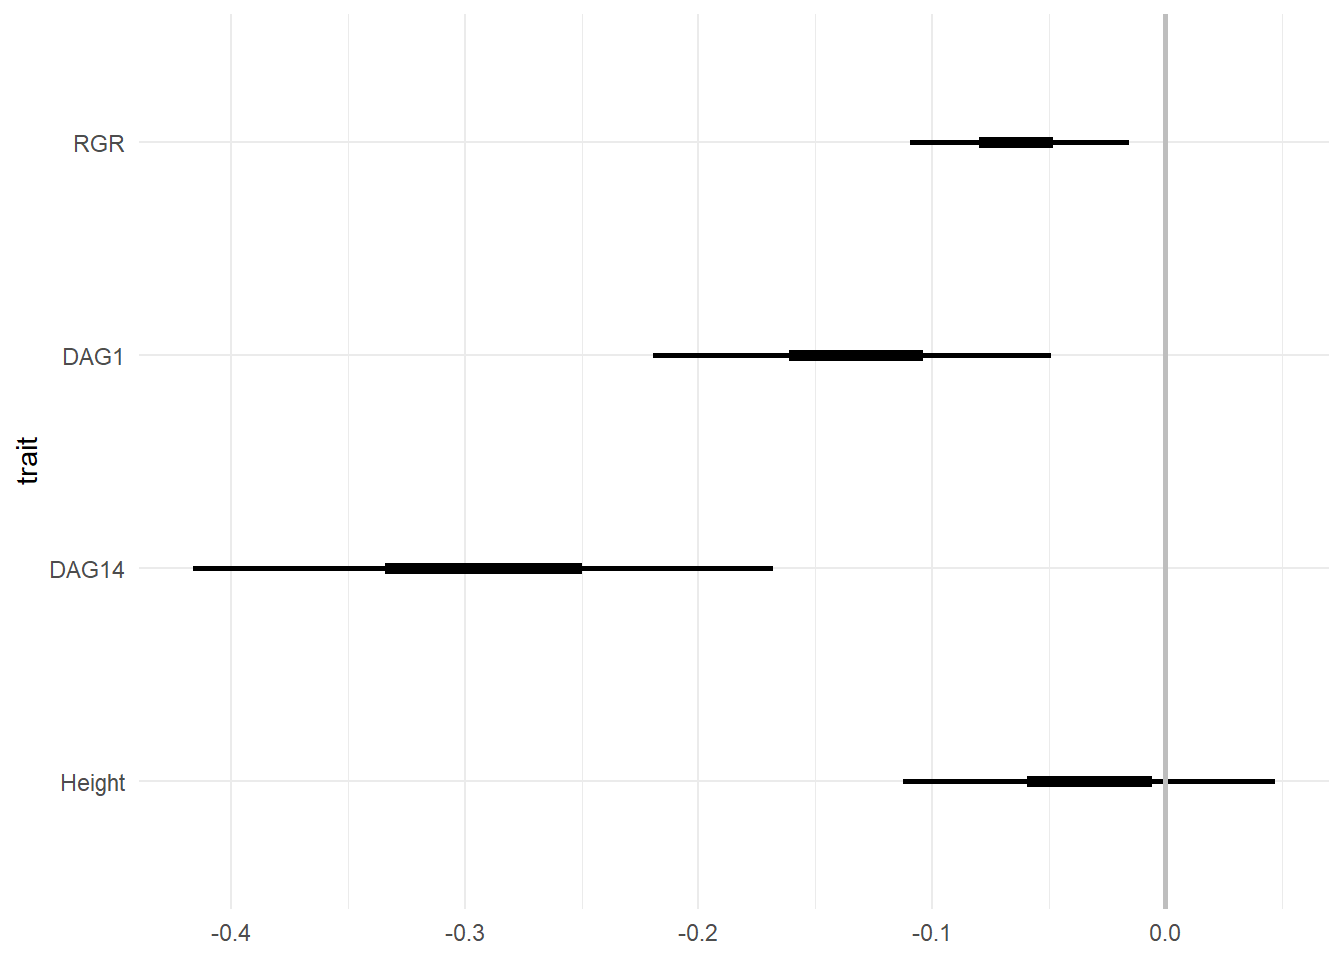
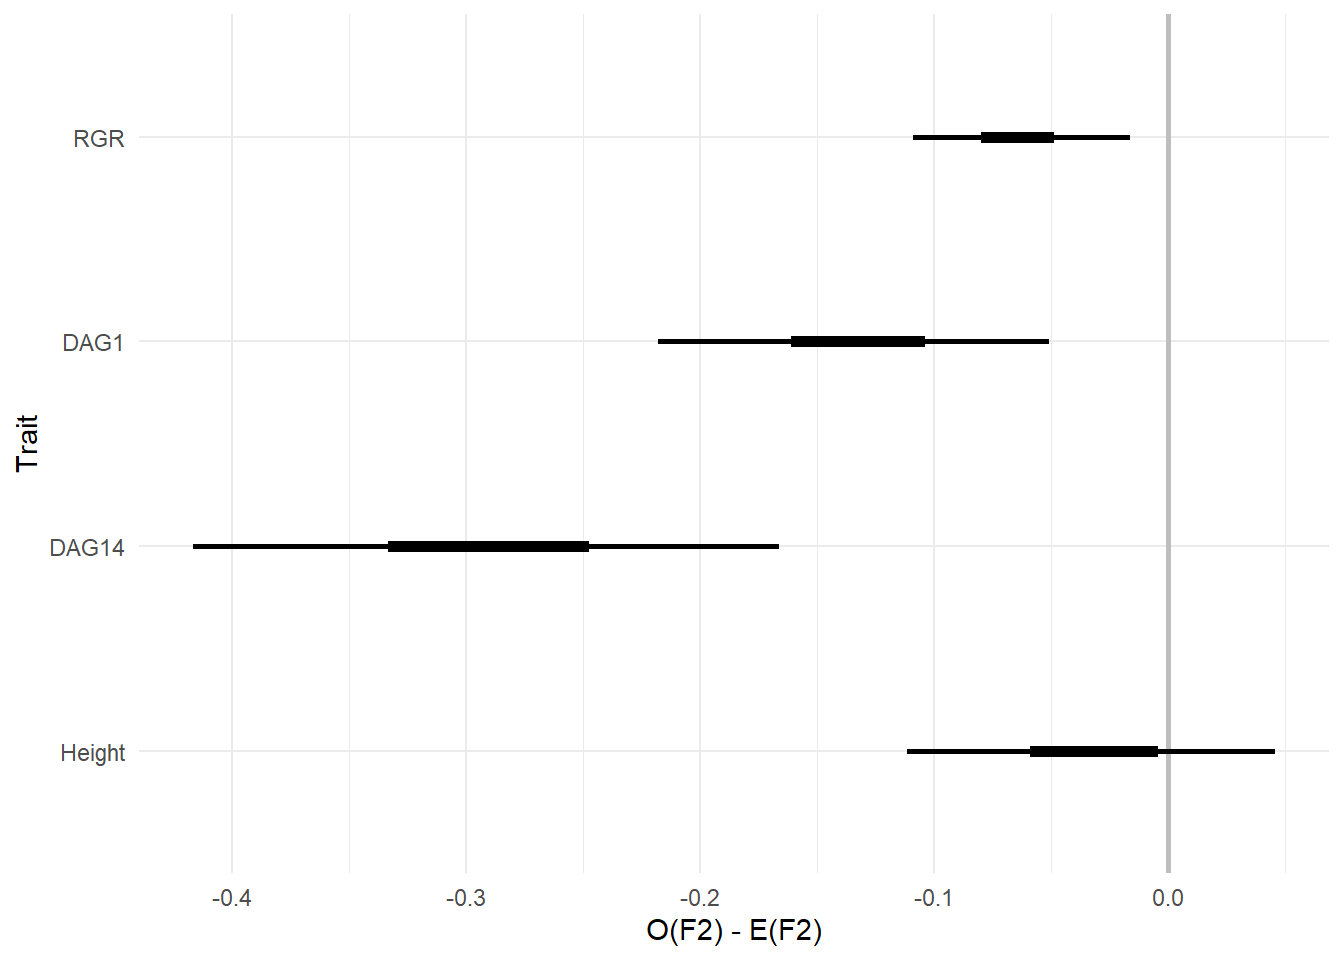
jk

diff --git a/analysis.html b/analysis.html
@@ -159,12 +159,14 @@ pre > code.sourceCode > span > a:first-child::before { text-decoration: underlin
 <span id="cb6-13"><a href="#cb6-13" aria-hidden="true" tabindex="-1"></a>            <span class="at">upr.5 =</span> <span class="fu">quantile</span>(delta, .<span class="dv">75</span>),</span>
 <span id="cb6-14"><a href="#cb6-14" aria-hidden="true" tabindex="-1"></a>            <span class="at">lwr.5 =</span> <span class="fu">quantile</span>(delta, .<span class="dv">25</span>)) <span class="sc">%&gt;%</span> </span>
 <span id="cb6-15"><a href="#cb6-15" aria-hidden="true" tabindex="-1"></a>  <span class="fu">ggplot</span>() <span class="sc">+</span></span>
-<span id="cb6-16"><a href="#cb6-16" aria-hidden="true" tabindex="-1"></a>  <span class="fu">geom_errorbarh</span>(<span class="fu">aes</span>(<span class="at">y =</span> trait, <span class="at">xmin =</span> lwr, <span class="at">xmax =</span> upr), <span class="at">height =</span> <span class="dv">0</span>, </span>
-<span id="cb6-17"><a href="#cb6-17" aria-hidden="true" tabindex="-1"></a>                 <span class="at">linewidth =</span> <span class="dv">1</span>) <span class="sc">+</span></span>
-<span id="cb6-18"><a href="#cb6-18" aria-hidden="true" tabindex="-1"></a>  <span class="fu">geom_errorbarh</span>(<span class="fu">aes</span>(<span class="at">y =</span> trait, <span class="at">xmin =</span> lwr<span class="fl">.5</span>, <span class="at">xmax =</span> upr<span class="fl">.5</span>), <span class="at">height =</span> <span class="dv">0</span>, </span>
-<span id="cb6-19"><a href="#cb6-19" aria-hidden="true" tabindex="-1"></a>                 <span class="at">linewidth =</span> <span class="dv">2</span>) <span class="sc">+</span></span>
-<span id="cb6-20"><a href="#cb6-20" aria-hidden="true" tabindex="-1"></a>  <span class="fu">geom_vline</span>(<span class="at">xintercept =</span> <span class="dv">0</span>, <span class="at">color =</span> <span class="st">"grey"</span>, <span class="at">linewidth =</span> <span class="dv">1</span>) <span class="sc">+</span></span>
-<span id="cb6-21"><a href="#cb6-21" aria-hidden="true" tabindex="-1"></a>  <span class="fu">theme_minimal</span>()</span></code><button title="Copy to Clipboard" class="code-copy-button"><i class="bi"></i></button></pre></div>
+<span id="cb6-16"><a href="#cb6-16" aria-hidden="true" tabindex="-1"></a>  <span class="fu">geom_vline</span>(<span class="at">xintercept =</span> <span class="dv">0</span>, <span class="at">color =</span> <span class="st">"grey"</span>, <span class="at">linewidth =</span> <span class="dv">1</span>) <span class="sc">+</span></span>
+<span id="cb6-17"><a href="#cb6-17" aria-hidden="true" tabindex="-1"></a>  <span class="fu">geom_errorbarh</span>(<span class="fu">aes</span>(<span class="at">y =</span> trait, <span class="at">xmin =</span> lwr, <span class="at">xmax =</span> upr), <span class="at">height =</span> <span class="dv">0</span>, </span>
+<span id="cb6-18"><a href="#cb6-18" aria-hidden="true" tabindex="-1"></a>                 <span class="at">linewidth =</span> <span class="dv">1</span>) <span class="sc">+</span></span>
+<span id="cb6-19"><a href="#cb6-19" aria-hidden="true" tabindex="-1"></a>  <span class="fu">geom_errorbarh</span>(<span class="fu">aes</span>(<span class="at">y =</span> trait, <span class="at">xmin =</span> lwr<span class="fl">.5</span>, <span class="at">xmax =</span> upr<span class="fl">.5</span>), <span class="at">height =</span> <span class="dv">0</span>, </span>
+<span id="cb6-20"><a href="#cb6-20" aria-hidden="true" tabindex="-1"></a>                 <span class="at">linewidth =</span> <span class="dv">2</span>) <span class="sc">+</span></span>
+<span id="cb6-21"><a href="#cb6-21" aria-hidden="true" tabindex="-1"></a>  <span class="fu">theme_minimal</span>() <span class="sc">+</span></span>
+<span id="cb6-22"><a href="#cb6-22" aria-hidden="true" tabindex="-1"></a>  <span class="fu">labs</span>(<span class="at">y =</span> <span class="st">"Trait"</span>,</span>
+<span id="cb6-23"><a href="#cb6-23" aria-hidden="true" tabindex="-1"></a>       <span class="at">x =</span> <span class="st">"O(F2) - E(F2)"</span>)</span></code><button title="Copy to Clipboard" class="code-copy-button"><i class="bi"></i></button></pre></div>
 <div class="cell-output-display">
 <div>
 <figure class="figure">
